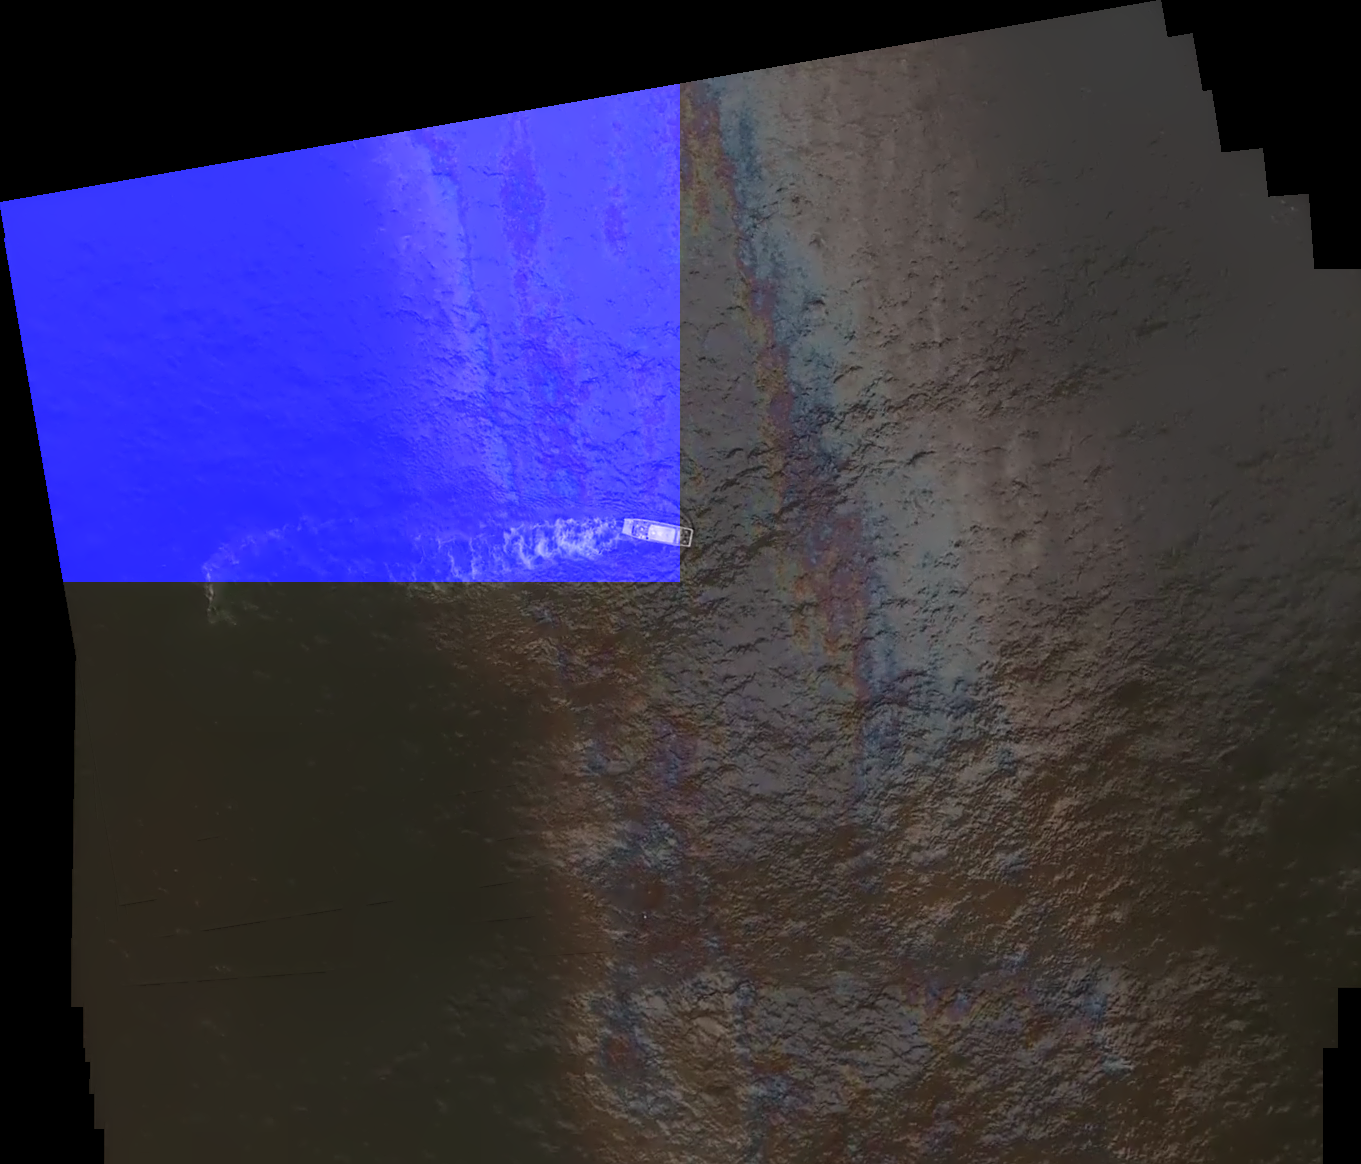
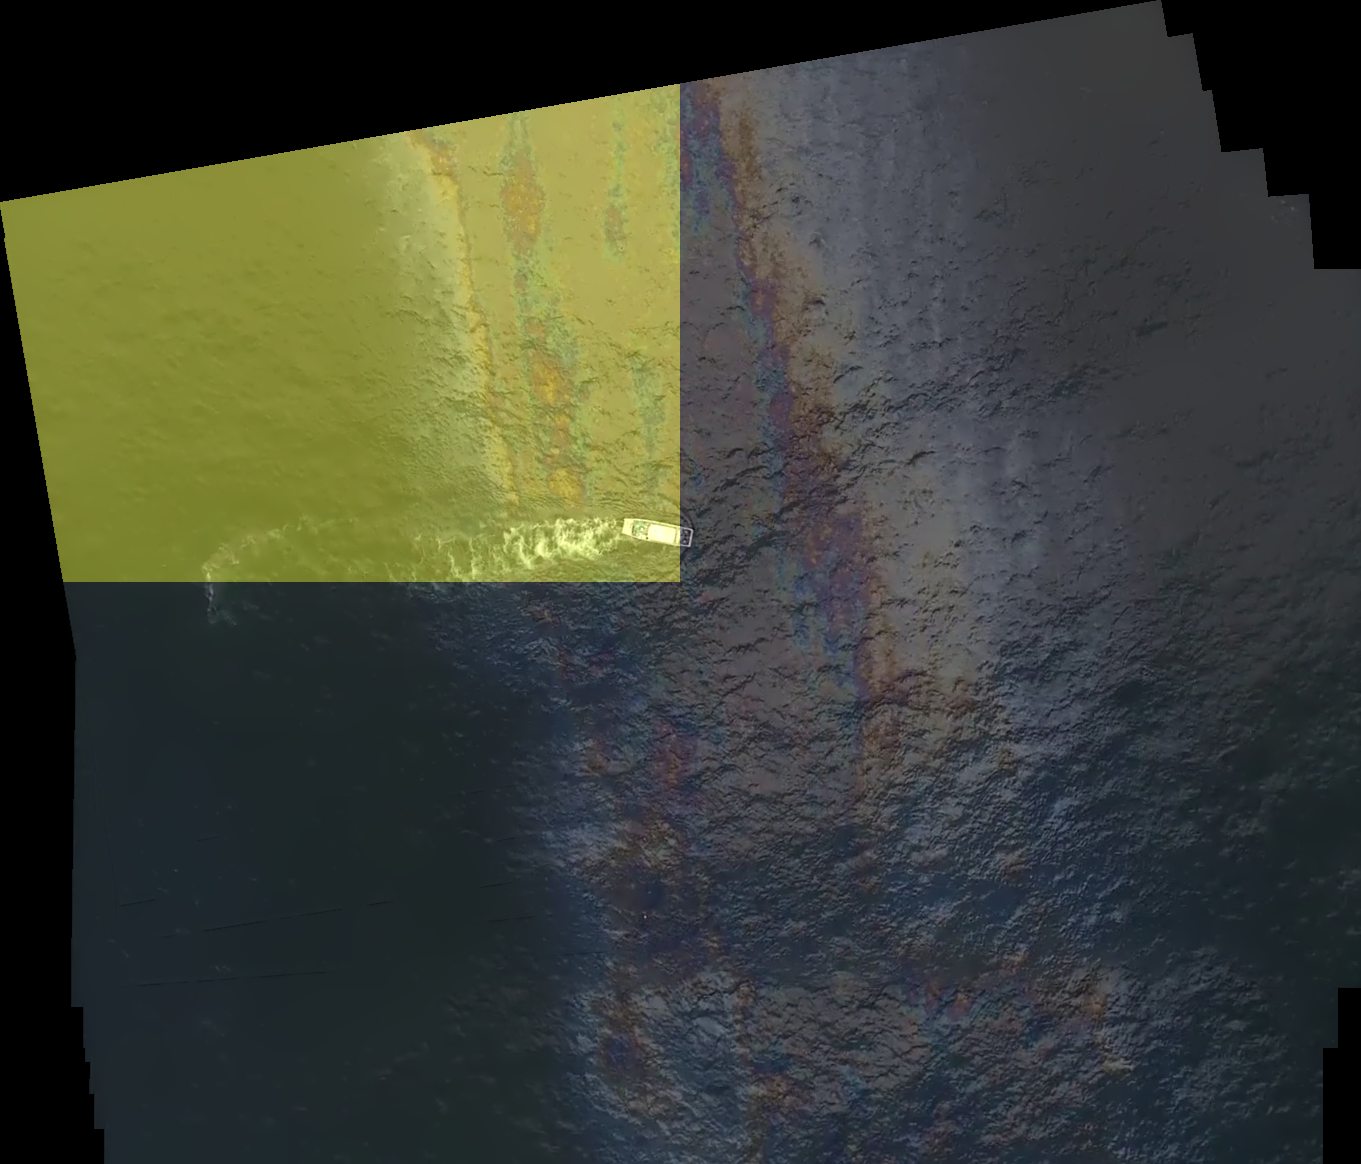
fix output image channels order

diff --git a/src/handlers/recognition.py b/src/handlers/recognition.py
@@ -3,6 +3,7 @@ import os
 from tempfile import NamedTemporaryFile
 
 import cv2
+import numpy as np
 from loguru import logger
 
 from src.service.recognition import SegmentationService
@@ -31,11 +32,7 @@ class RecognitionHandler:
         input_filepath = os.path.join(self.output_dir_path, 'input.png')
         output_filepath = os.path.join(self.output_dir_path, 'output.png')
         cv2.imwrite(input_filepath, cv2.cvtColor(image, cv2.COLOR_RGB2BGR))
-        cv2.imwrite(output_filepath, image_with_mask)
-        # TODO: Handle cv2 BGR to RGB convert error
-        # cv2.imwrite(  # TODO: Raises "depth is 4 error"
-        #     output_filepath, cv2.cvtColor(image_with_mask, cv2.COLOR_RGB2BGR)
-        # )
+        cv2.imwrite(output_filepath, np.flip(image_with_mask, axis=2))
 
     def handle(self, file) -> None:
         temp_name = self._save_temp_file(file)

diff --git a/src/service/recognition.py b/src/service/recognition.py
@@ -32,7 +32,7 @@ class SegmentationService:
         h, w, c = image.shape
         res = (
                 np.stack([mask for _ in range(c)]).transpose(1, 2, 0)
-                * np.ones((h, w, c)) * np.array([255, 0, 0])
+                * np.ones((h, w, c)) * np.array([87, 87, 0])
         ).astype(int)
         res += image
         res = np.where(res > 255, 255, res) * (image > 0)
